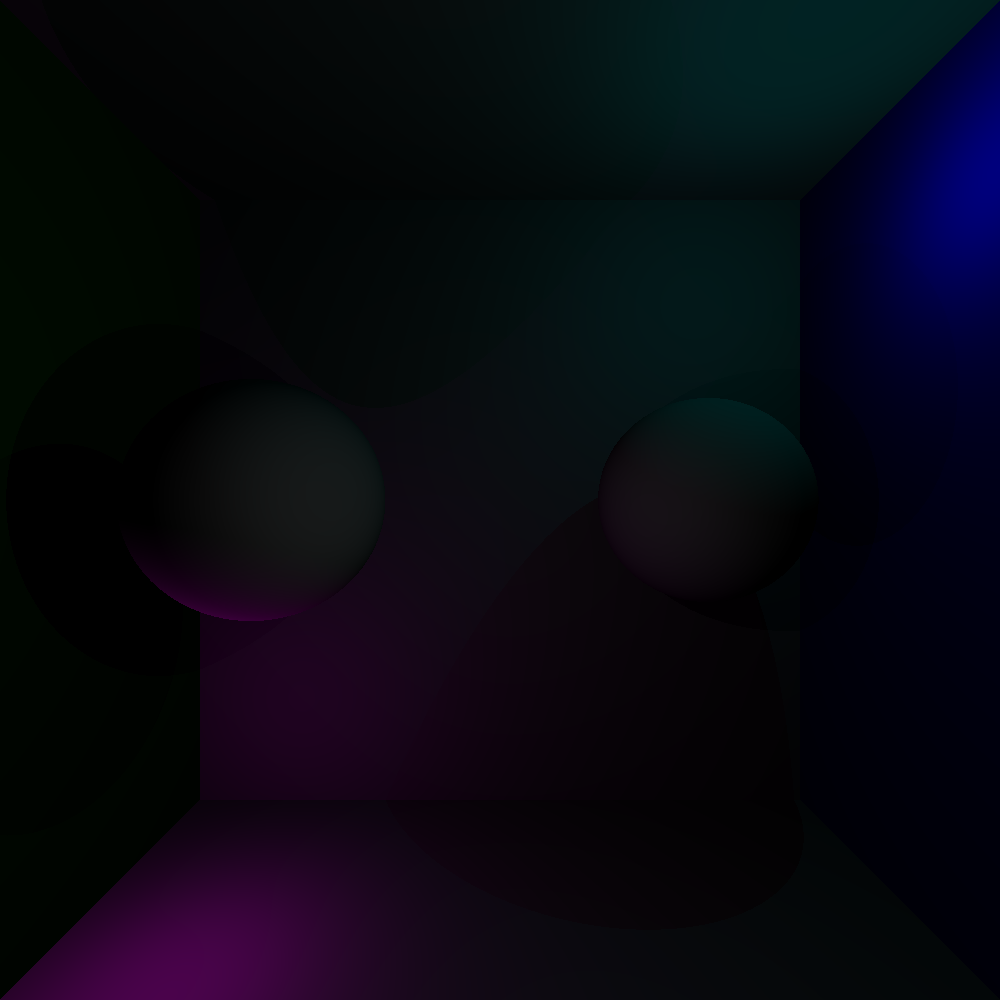
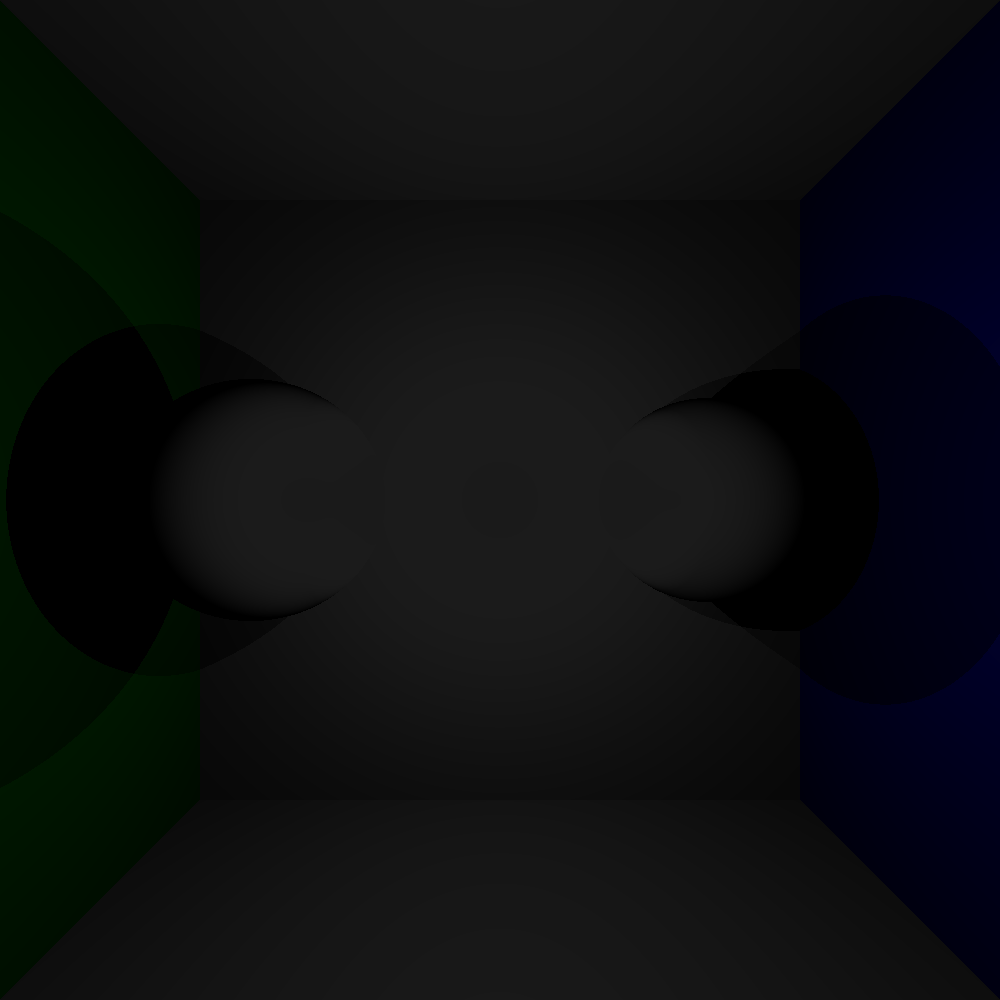
Améliore le tonemapping et ajoute le support spéculaire
- Modifie `tonemapAll` pour appeler `reinhardJodie` sans seuil.
- Commente plusieurs lumières dans `main` et ajoute une nouvelle lumière.
- Ajoute `specularMap` à la classe `Scene` pour stocker les contributions spéculaires.
- Met à jour `generateLightmap` pour calculer les contributions spéculaires.
- Modifie `combineMaps` pour inclure les contributions spéculaires.
- Étend la structure `Material` avec un attribut `shininess` et une méthode `calculateSpecular`.
- Modifications visuelles dans plusieurs fichiers d'images.

diff --git a/RaytracingEngine/Scene.h b/RaytracingEngine/Scene.h
@@ -18,6 +18,7 @@ private:
 	std::vector<Vec3> normalMap;
 	std::vector<Vec3> colorMap;
 	std::vector<Vec3> lightMap;
+	std::vector<Vec3> specularMap;
 
 	Camera camera;
 public:
@@ -46,6 +47,7 @@ public:
 	const std::vector<Vec3>& getColorMap() const { return colorMap; }
 	const std::vector<Vec3>& getNormalMap() const { return normalMap; }
 	const std::vector<Vec3>& getLightMap() const { return lightMap; }
+	const std::vector<Vec3>& getSpecularMap() const { return specularMap; }
 
 	const Camera& getCamera() const { return camera; }
 
@@ -90,6 +92,19 @@ public:
 				return planes[hit.index.value()]->getMaterial().color;
 			default:
 				return Vec3(0, 0, 0);
+		}
+	}
+
+	double getShininessOfHit(const HitInfo& hit) const {
+		if (!hit.index.has_value()) return 32.0;
+		switch (hit.type)
+		{
+			case HitType::SPHERE:
+				return spheres[hit.index.value()]->getMaterial().shininess;
+			case HitType::PLANE:
+				return planes[hit.index.value()]->getMaterial().shininess;
+			default:
+				return 32.0;
 		}
 	}
 
@@ -175,6 +190,7 @@ public:
 	void generateLightmap() {
 		const std::size_t pixelCount = camera.width * camera.height;
 		std::vector<Vec3> lightMapLocal(pixelCount, Vec3(0, 0, 0));
+		std::vector<Vec3> specularMapLocal(pixelCount, Vec3(0, 0, 0));
 
 		const double bias = 1e-3;
 		for (std::size_t y = 0; y < camera.height; ++y) {
@@ -191,6 +207,10 @@ public:
 				}
 				Vec3 normal = optNormal.value().normalize();
 
+				Vec3 viewDir = (camera.position - pixelDepth.hitPoint).normalize();
+				double shininess = getShininessOfHit(pixelDepth);
+
+				Vec3 specularAccum = Vec3(0, 0, 0);
 				Vec3 incoming = Vec3(0, 0, 0);
 				for (const std::unique_ptr<Light>& light : lights) {
 					double dist = light->distanceTo(pixelDepth.hitPoint);
@@ -214,20 +234,30 @@ public:
 					}
 
 					incoming += light->contributionFrom(dist, NdotL);
+
+					Vec3 half = (Ldir + viewDir).normalize();
+					double NdotH = std::max(0.0, normal.dot(half));
+					double specFactor = std::pow(NdotH, shininess);
+
+					Vec3 specContribution = light->emitted() * (1.0 / (dist * dist)) * specFactor;
+
+					specularAccum += specContribution;
 				}
 
 				lightMapLocal[pixelIndex] = incoming;
+				specularMapLocal[pixelIndex] = specularAccum;
 			}
 		}
 
 		this->lightMap = std::move(lightMapLocal);
+		this->specularMap = std::move(specularMapLocal);
 	}
 
 	std::vector<Vec3> combineMaps() {
 		const std::size_t pixelCount = camera.width * camera.height;
 		std::vector<Vec3> combinedMap(pixelCount, Vec3(0, 0, 0));
 		for (std::size_t i = 0; i < combinedMap.size(); ++i) {
-			combinedMap[i] = colorMap[i] * lightMap[i];
+			combinedMap[i] = colorMap[i] * lightMap[i] + specularMap[i];
 		}
 		return combinedMap;
 	}

diff --git a/RaytracingEngine/RaytracingEngine.cpp b/RaytracingEngine/RaytracingEngine.cpp
@@ -121,7 +121,6 @@ std::vector<Color> tonemap(const std::vector<Vec3>& pixels)
 
 std::vector<std::vector<Color>> tonemapAll(const std::vector<Vec3> pixels)
 {
-	// do each tonemapping method and store the results in a vector of vector<Color>
 	std::vector<std::vector<Color>> allTonemapped;
 	std::vector<Color> simpleMapped = std::vector<Color>(pixels.size());
 	std::vector<Color> reinhardSimpleMapped = std::vector<Color>(pixels.size());
@@ -141,7 +140,7 @@ std::vector<std::vector<Color>> tonemapAll(const std::vector<Vec3> pixels)
 		reinhardExtendedMapped[i] = toColor(reinhardExtendedColor);
 		Vec3 reinhardExtendedLuminanceColor = reinhardExtendedLuminance(current, 5.0);
 		reinhardExtendedLuminanceMapped[i] = toColor(reinhardExtendedLuminanceColor);
-		Vec3 reinhardJodieColor = reinhardJodie(current, 0.18);
+		Vec3 reinhardJodieColor = reinhardJodie(current);
 		reinhardJodieMapped[i] = toColor(reinhardJodieColor);
 		Vec3 uncharted2Color = uncharted2(current);
 		uncharted2Mapped[i] = toColor(uncharted2Color);
@@ -193,9 +192,10 @@ int main()
 		scene.addPlane(Plane(dir * -distance, dir, col));
 	}
 
-	scene.addLight(Light(Vec3(10, 10, 5), Vec3(0, 1, 1), 50));
-	scene.addLight(Light(Vec3(-10, -10, 5), Vec3(1, 0, 1), 50));
-	scene.addLight(Light(Vec3(0, 0, 0), Vec3(1, 1, 1), 30));
+	//scene.addLight(Light(Vec3(10, 10, 5), Vec3(0, 1, 1), 50));
+	//scene.addLight(Light(Vec3(-10, -10, 5), Vec3(1, 0, 1), 50));
+	scene.addLight(Light(Vec3(0, 0, 0), Vec3(1, 1, 1), 100));
+	scene.addLight(Light(Vec3(0, 0, 8), Vec3(1, 1, 1), 75));
 
 	scene.generateDepthmap();
 	scene.generateColormap();
@@ -205,8 +205,6 @@ int main()
 
 	std::vector<Vec3> pixels = scene.combineMaps();
 	std::vector<Color> colorPixels = tonemap(pixels);
-
-	std::string filename = "aces";
 
 	std::vector<std::string> tonemapNames = {
 		"simple",

diff --git a/RaytracingEngine/Shape.h b/RaytracingEngine/Shape.h
@@ -12,6 +12,13 @@ struct Transform {
 
 struct Material {
 	Vec3 color;
+	double shininess = 32.0;
+
+	Vec3 calculateSpecular(const Vec3& lightDir, const Vec3& viewDir, const Vec3& normal) const {
+		Vec3 reflectDir = (lightDir - normal * 2.0 * lightDir.dot(normal)).normalize();
+		double spec = std::pow(std::max(viewDir.dot(reflectDir), 0.0), shininess);
+		return Vec3(1, 1, 1) * spec;
+	}
 };
 
 enum class HitType: unsigned char {
